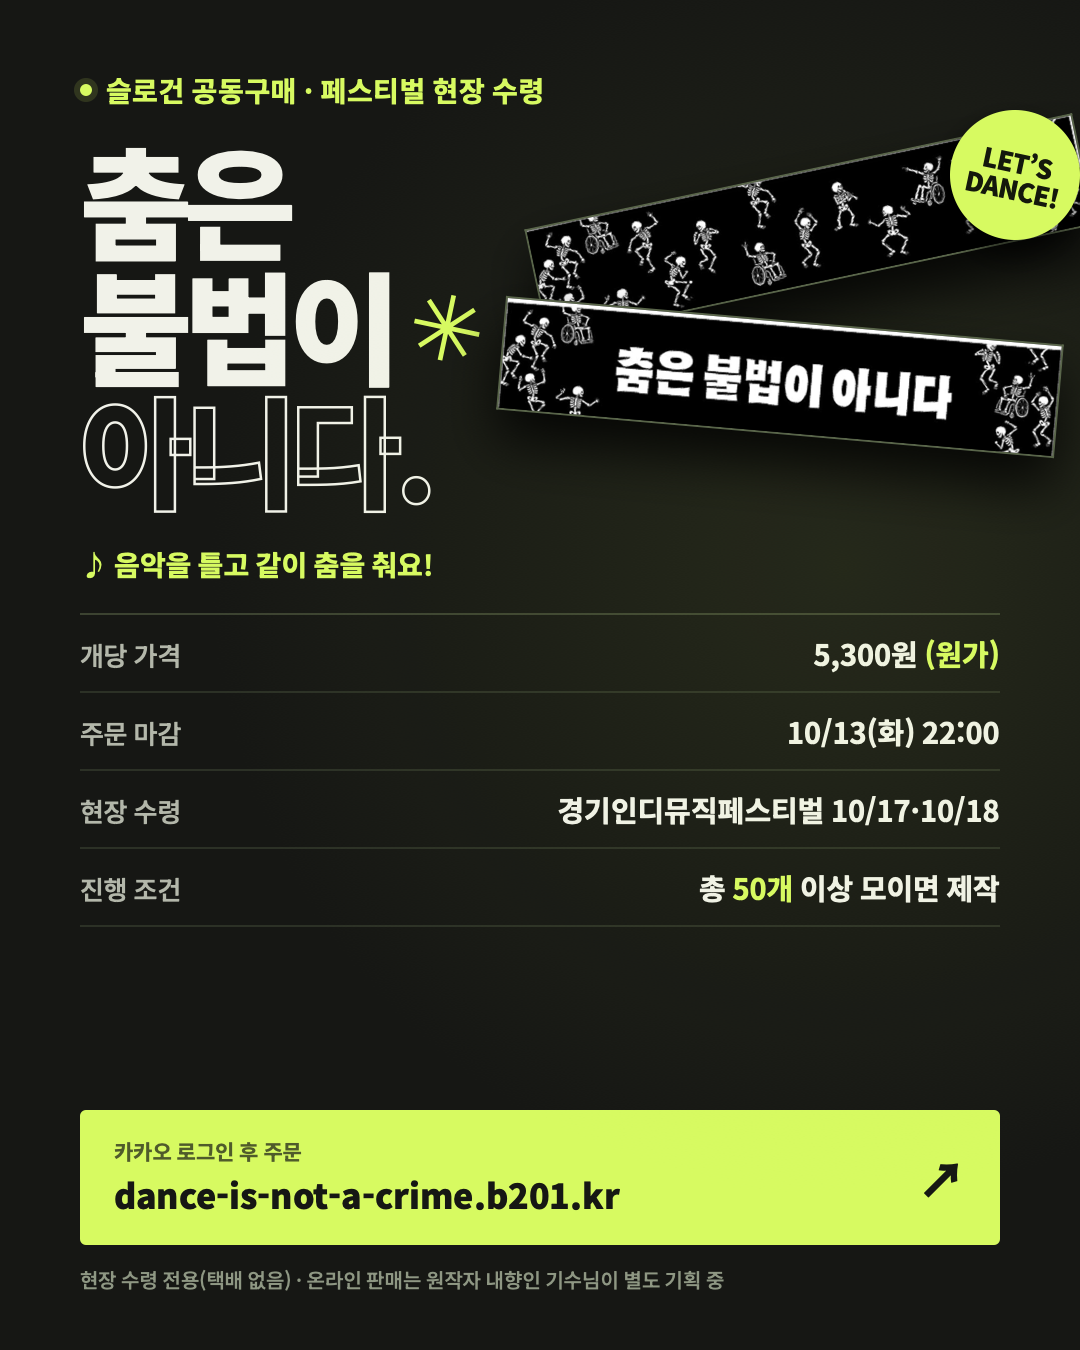
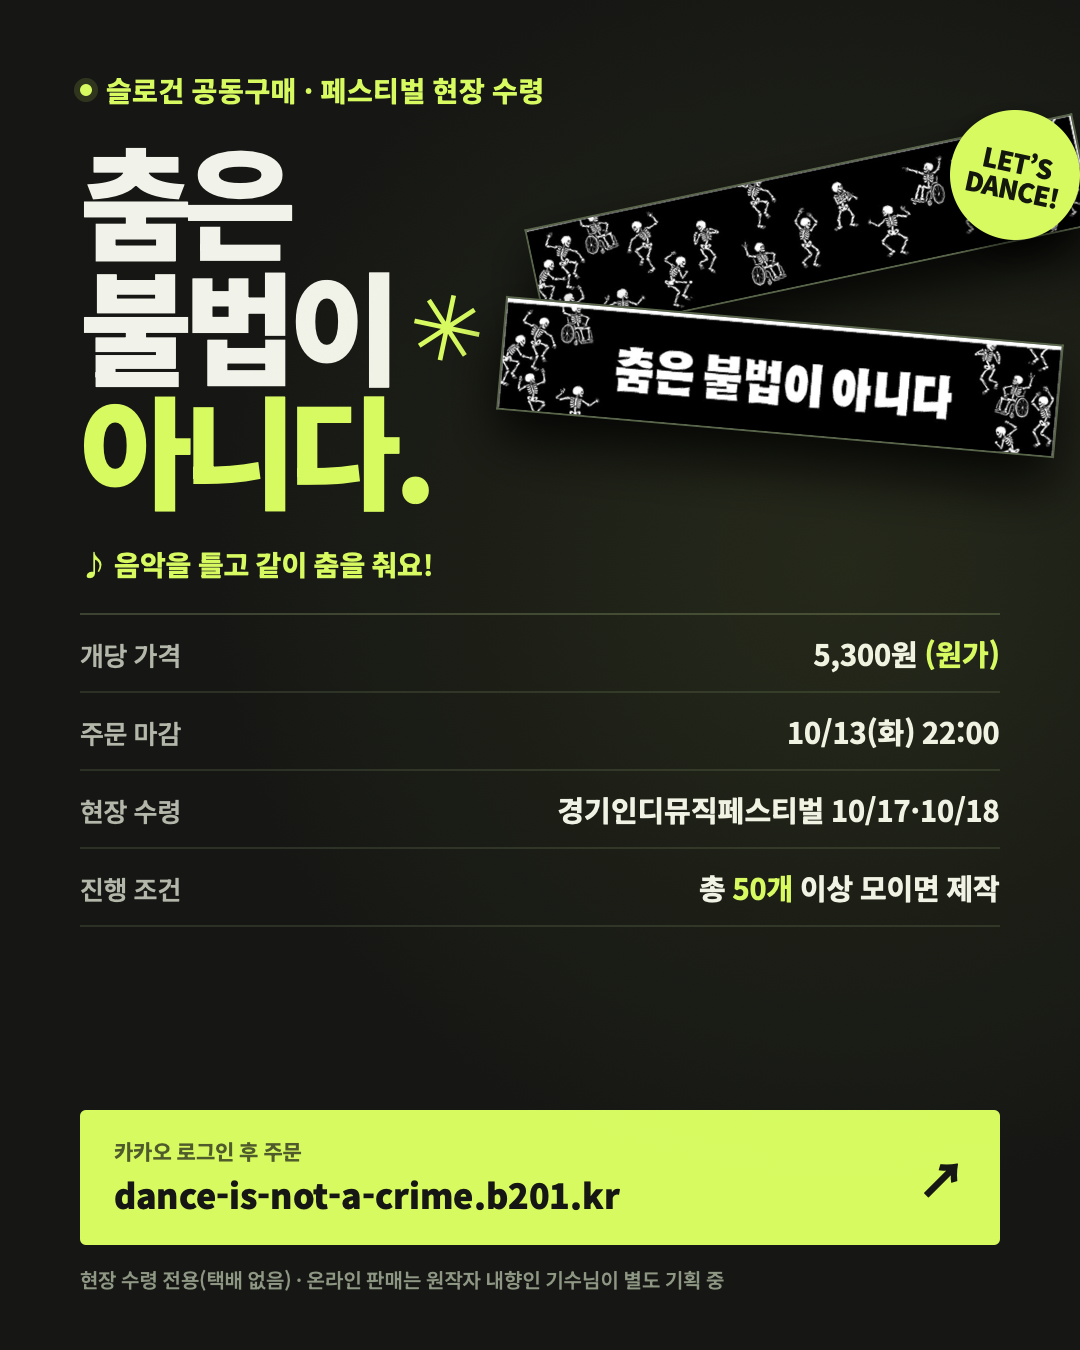
홍보 이미지: '아니다.'를 외곽선 대신 라임색으로
Claude-Session: https://claude.ai/code/session_017mauSSCph9LMVN9NcxLAXY

Changed region(s): [[0.0611, 0.28, 0.3972, 0.4044]]

diff --git a/brand/promo/promo.html b/brand/promo/promo.html
@@ -12,7 +12,7 @@ body{background:#000;font-family:'Noto Sans KR',sans-serif;color:var(--ink);word
 .kicker{display:inline-flex;align-self:flex-start;align-items:center;gap:14px;color:var(--lime);font-weight:700;letter-spacing:.02em}
 .kicker i{display:block;width:12px;height:12px;border-radius:50%;background:var(--lime);box-shadow:0 0 0 6px #d7fa6122}
 h1{font-weight:900;line-height:1.02;letter-spacing:-.06em}
-h1 .o{color:transparent;-webkit-text-stroke:2.5px var(--ink)}
+h1 .o{color:var(--lime)}
 .crop{display:block;aspect-ratio:1033/211;overflow:hidden;position:relative;background:#000;border:2px solid #59654a;box-shadow:0 30px 60px #000c}
 .crop img{position:absolute;width:116.75%;height:auto;left:-7.75%;top:-126.07%}
 .crop.back img{top:-9.48%}
